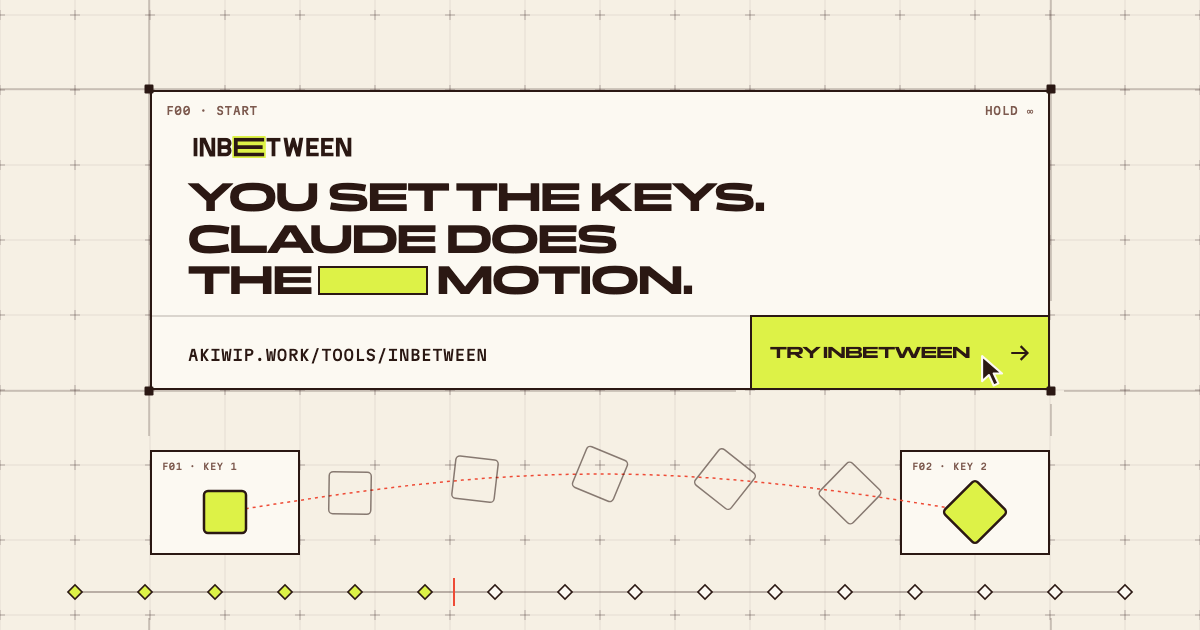
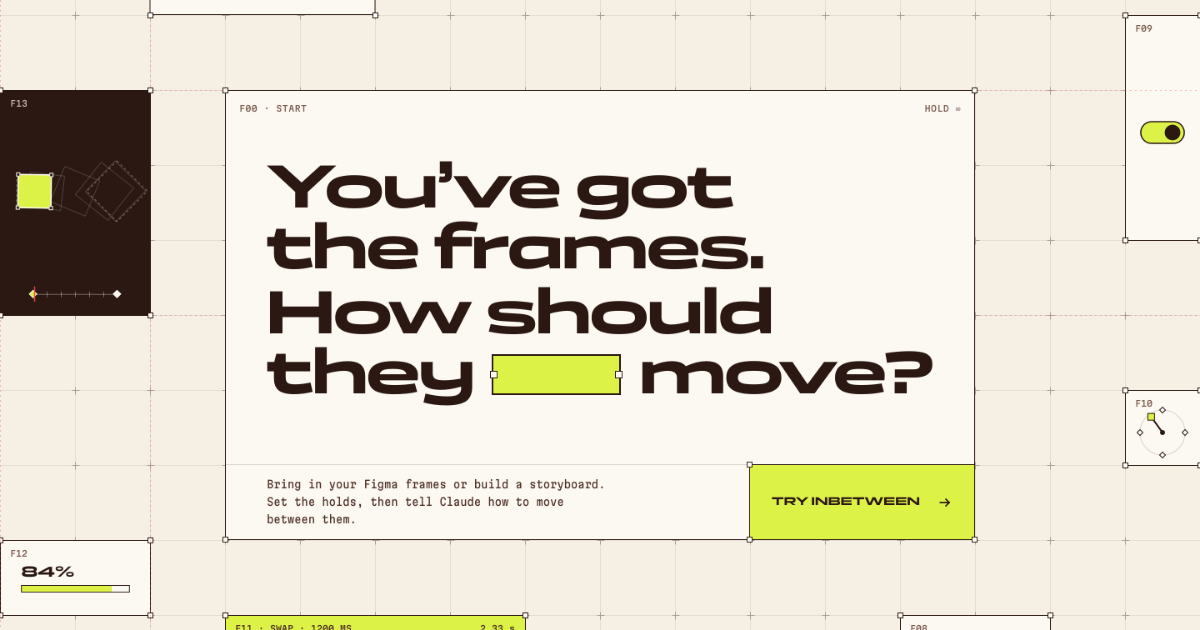
Tools: add inbetween, with its cover, link preview and thumbnail
inbetween leads the Tools list with an Open link to the hosted web beta.
The hosted copy gets the new landing-page link preview (absolute URL) and
a site thumbnail; its app code is unchanged.

diff --git a/public/tools/inbetween/index.html b/public/tools/inbetween/index.html
@@ -15,19 +15,23 @@
     <link rel="apple-touch-icon" href="./apple-touch-icon.png" />
     <link rel="manifest" href="./site.webmanifest" />
 
-    <!-- social preview. Scrapers need absolute URLs: swap ./og.png for https://<your-domain>/og.png once hosted -->
+    <!-- social preview: scrapers need absolute URLs -->
     <meta property="og:type" content="website" />
     <meta property="og:site_name" content="inbetween" />
     <meta property="og:title" content="inbetween: you set the keys, Claude does the in-betweens" />
     <meta property="og:description" content="Storyboard your key frames and Claude animates the in-betweens: timing, eases, overshoot and arcs. Export MP4 or HTML." />
-    <meta property="og:image" content="./og.png" />
+    <meta property="og:image" content="https://akiwip.work/tools/inbetween/og.png" />
     <meta property="og:image:width" content="1200" />
     <meta property="og:image:height" content="630" />
-    <meta property="og:image:alt" content="A frame on a design grid with the inbetween logo, 'You set the keys. Claude does the motion.' and a Try inbetween button. Below it, a square arcs and turns into a diamond between key 1 and key 2, over a timeline of keys." />
+    <meta property="og:image:alt" content="The inbetween landing page: 'You've got the frames. How should they move?' in a big frame on a design grid, with a Try inbetween button and small animated frames around it." />
     <meta name="twitter:card" content="summary_large_image" />
     <meta name="twitter:title" content="inbetween: you set the keys, Claude does the in-betweens" />
     <meta name="twitter:description" content="Storyboard your key frames and Claude animates the in-betweens. Export MP4 or HTML." />
-    <meta name="twitter:image" content="./og.png" />
+    <meta name="twitter:image" content="https://akiwip.work/tools/inbetween/og.png" />
+
+    <!-- site thumbnail (a capture of the landing page) for search results and site listings -->
+    <meta name="thumbnail" content="./thumbnail.png" />
+    <link rel="image_src" href="./thumbnail.png" />
     <link rel="preconnect" href="https://api.fontshare.com" crossorigin />
     <link rel="preconnect" href="https://fonts.gstatic.com" crossorigin />
     <link rel="stylesheet" href="https://api.fontshare.com/v2/css?f[]=gambarino@400&display=swap" />

diff --git a/content/tools.ts b/content/tools.ts
@@ -28,6 +28,18 @@ export interface Tool {
 
 export const TOOLS: Tool[] = [
   {
+    slug: "inbetween",
+    title: "inbetween",
+    description:
+      "Turn storyboards into animations with Claude. Build your frames, set the timing, and describe how they should move. Refine the animation manually on the timeline or ask Claude/ChatGPT for changes.",
+    kind: "Web app",
+    platform: "Browser",
+    year: "2026",
+    image: "/tools/covers/inbetween.jpg",
+    // the web beta is hosted here, so one click opens it
+    actions: [{ label: "Open", href: "/tools/inbetween/", kind: "open" }],
+  },
+  {
     slug: "chomp",
     title: "Chomp",
     description:
